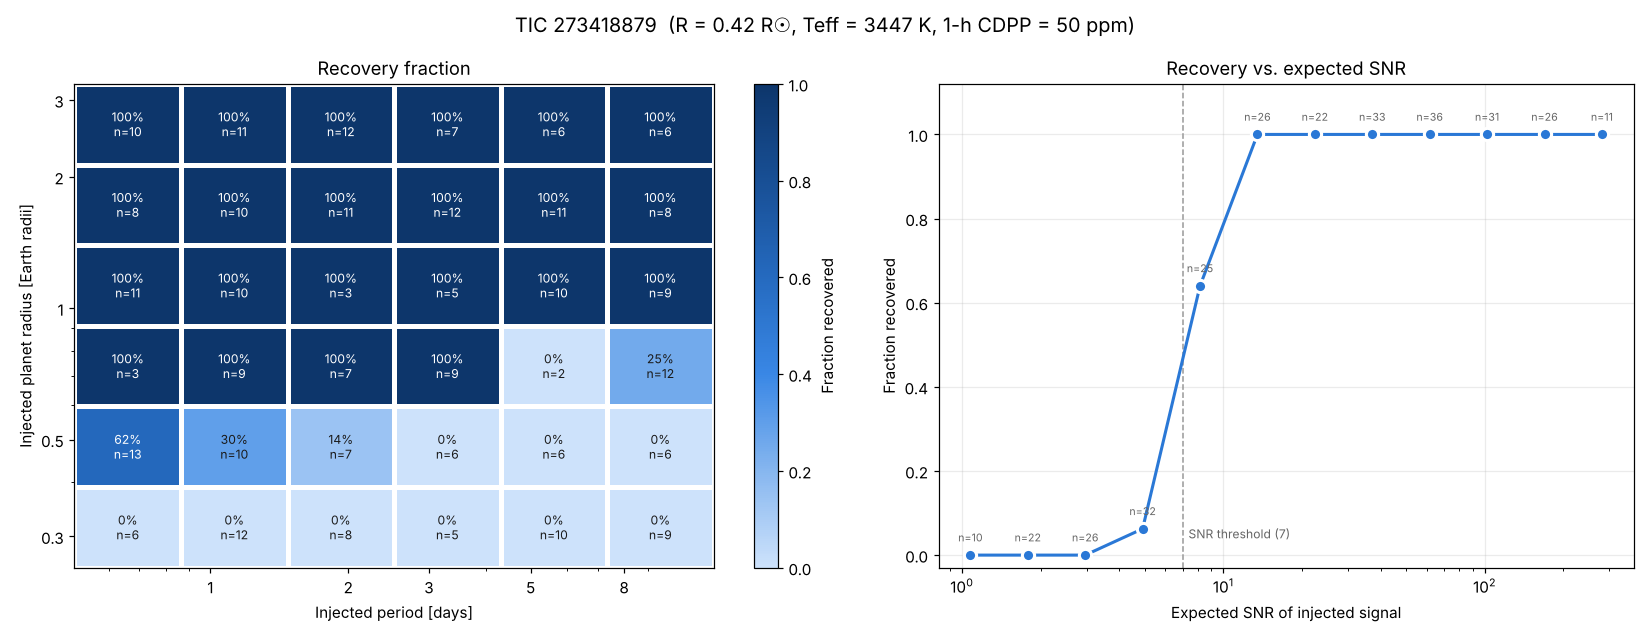
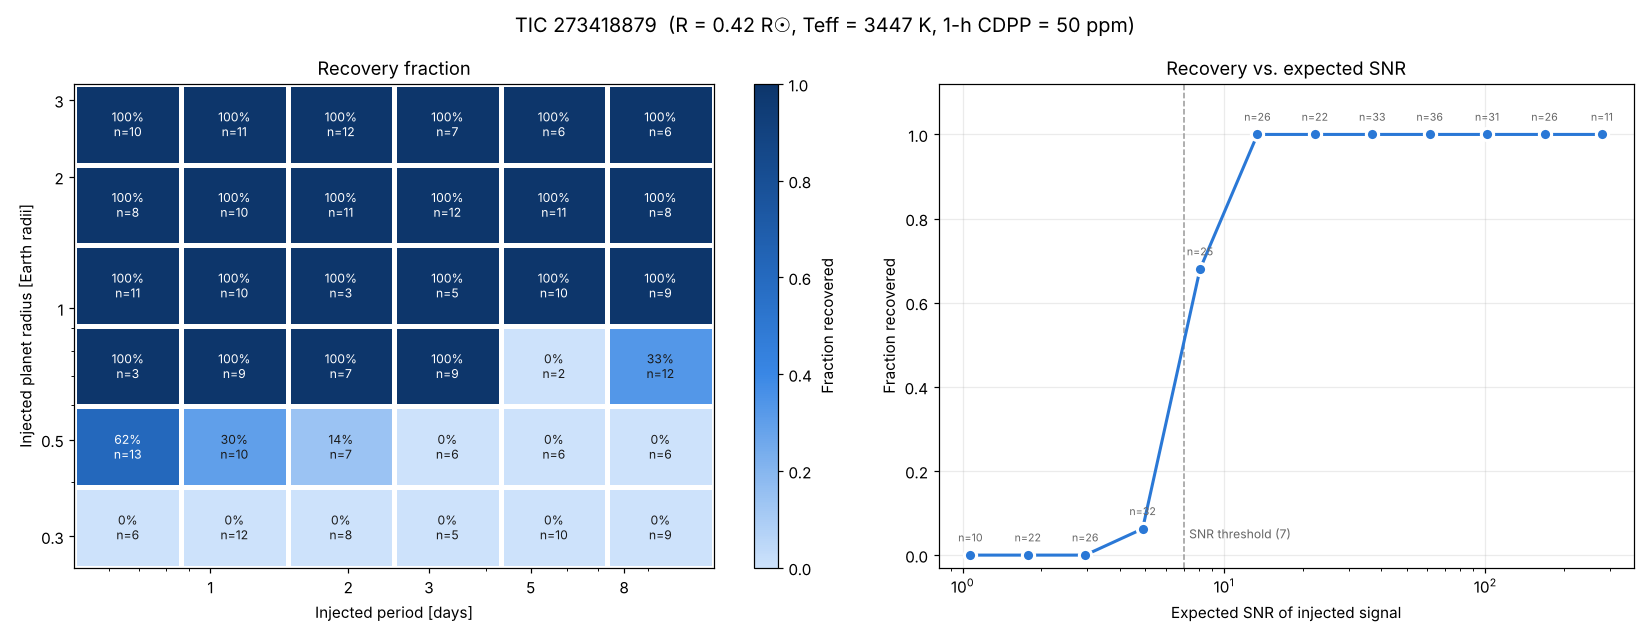
Lower detection threshold to SDE 8, chosen from injection noise trials
Rerun of 900 injections with the robust trend: sensitivity unchanged on
quiet stars. Near-threshold misses were mostly correct periods cut by
SDE >= 9. On 105 noise-only trials SDE >= 8 gave no false alarms and
raised near-threshold recovery from 65% to 71%; 50% radius on the solar
twin improves from 1.54 to 1.45 R_earth.

Claude-Session: https://claude.ai/code/session_01SJhonDajSLTuk3ek6odARe

diff --git a/planets/transit_search.py b/planets/transit_search.py
@@ -30,9 +30,13 @@ from astropy.timeseries import BoxLeastSquares
 # period planets around small stars can be under an hour.
 DEFAULT_DURATIONS = np.array([0.5, 1, 1.5, 2, 3, 4, 5, 6, 8]) / 24.0
 
-# Rough "is this worth a closer look" thresholds. They're conventions, not
-# laws: SDE ~ 7-9 and SNR ~ 7 are typical cut-offs in TESS/Kepler searches.
-MIN_SDE = 9.0
+# "Is this worth a closer look" thresholds. SDE ~ 7-9 and SNR ~ 7 are
+# typical cut-offs in TESS/Kepler searches. We chose SDE 8 from our own
+# injection tests: on 105 pure-noise trials, SDE >= 7.5 still gave no false
+# alarms (SDE >= 7 gave 2%), while going from 9 to 8 raised recovery of
+# near-threshold planets (SNR 7-15) from 65% to 71%. Most misses at 9 were
+# found at the right period but cut by SDE alone.
+MIN_SDE = 8.0
 MIN_SNR = 7.0
 
 # Longest transit we'll consider, as a fraction of the orbital period.

diff --git a/planets/README.md b/planets/README.md
@@ -277,30 +277,44 @@ Then it runs the **unchanged** production search on every one.
 
 ![Recovery vs planet radius](docs/injection_recovery_vs_radius.png)
 
-**Results** (one sector, P = 0.5–13 d):
+**Results** (one sector, P = 0.5–13 d, current pipeline):
 
 | | Solar twin | 1.3 R☉ G dwarf | M dwarf |
 |---|---|---|---|
-| 50% recovery radius | 1.5 R⊕ | 1.85 R⊕ | **0.58 R⊕** |
-| 50% recovery radius, P < 3 d | 1.3 R⊕ | 1.5 R⊕ | 0.5 R⊕ |
-| 50% recovery at expected SNR | 9.2 | 9.8 | 8.2 |
+| 50% recovery radius | 1.45 R⊕ | 1.72 R⊕ | **0.58 R⊕** |
+| 50% recovery radius, P < 3 d | 1.19 R⊕ | 1.42 R⊕ | 0.50 R⊕ |
+| 50% recovery at expected SNR | 8.6 | 8.5 | 8.0 |
 | Recovered at expected SNR > 15 | 100% | 100% | 100% |
 
 What this tells us:
-- **No strong signal was missed.** All 788 injections with expected SNR > 15
-  came back at the right period and transit times. Misses happen only near
-  the detection threshold, where they should.
+- **No strong signal was missed.** Every injection with expected SNR > 15
+  (519 of them) came back at the right period and transit times. Misses
+  happen only near the detection threshold, where they should.
 - **M dwarfs are where small planets are findable.** The noise level is the
-  same, but the star is 2.3× smaller, so an Earth-sized planet makes a ~6× deeper
-  dip. Around this M dwarf, the pipeline finds 80% of 0.8 R⊕ planets. Around
-  the solar twin it finds almost none.
+  same, but the star is 2.3× smaller, so an Earth-sized planet makes a ~6×
+  deeper dip. Around this M dwarf, the pipeline finds 85% of 0.7–0.9 R⊕
+  planets. Around the solar twin it finds 4%.
 - **A "nothing found" is now quantified.** With one sector of this solar
-  twin, we'd have caught 85% of 2 R⊕ planets with P < 13 d and almost all
-  planets bigger than 3 R⊕.
-- **Where sensitivity is lost.** Recovery reaches 50% at expected SNR ~9,
-  not at the threshold of 7. Detection uses blind flattening, which shrinks
-  dips by ~20–25% (see [the pipeline steps](#the-pipeline-step-by-step)).
-  Recovering that safely would lower the detection limit.
+  twin, we'd have caught 91% of ~2 R⊕ planets with P < 13 d and every
+  planet bigger than 3 R⊕.
+- **Choosing the SDE threshold with data.** Near the threshold, most
+  injections the search *found at the right period* were thrown out only
+  because SDE was below 9. Using the near-zero-depth injections as
+  pure-noise trials (105 of them), we compared cut-offs:
+
+  | SDE ≥ | 9 | 8 | 7.5 | 7 |
+  |---|---|---|---|---|
+  | False alarms on noise | 0% | 0% | 0% | 2% |
+  | Recovery at SNR 7–15 | 65% | 71% | 73% | 78% |
+
+  We use **SDE ≥ 8**: a clear gain with margin before false alarms appear.
+  Noisier, more active stars will produce more false alarms than these quiet
+  ones, so the margin is deliberate.
+- **The flattening change didn't move these numbers** (1.54 → 1.56 R⊕ on
+  the solar twin before the threshold change, i.e. noise). The old
+  flattening's steps hurt variable stars and multi-planet systems, not single
+  planets on quiet stars. The new trend fit is still worth it for those
+  cases, as the two-planet regression test shows.
 
 <details><summary>Per-star maps (period × radius)</summary>
 
@@ -309,11 +323,13 @@ What this tells us:
 
 </details>
 
-**Bugs this test found** (both fixed, with regression tests):
+**Bugs these tests found** (all fixed, with regression tests):
 1. BLS fit 8-hour boxes to ~1-day periods, which outscored real short-period
    transits. Fix: durations are capped at 15% of the period.
 2. The masked second pass searched again and could "re-discover" pass-1
    noise. Fix: pass 2 only measures; it never searches.
+3. lightkurve's `flatten()` created 500–1000 ppm steps beside transits,
+   which produced a false period in a two-planet test. Fix: `robust_trend`.
 
 Caveats: the injections go into PDCSAP flux, which NASA has already
 detrended. So this tests our pipeline, not NASA's detrending, and it is a
